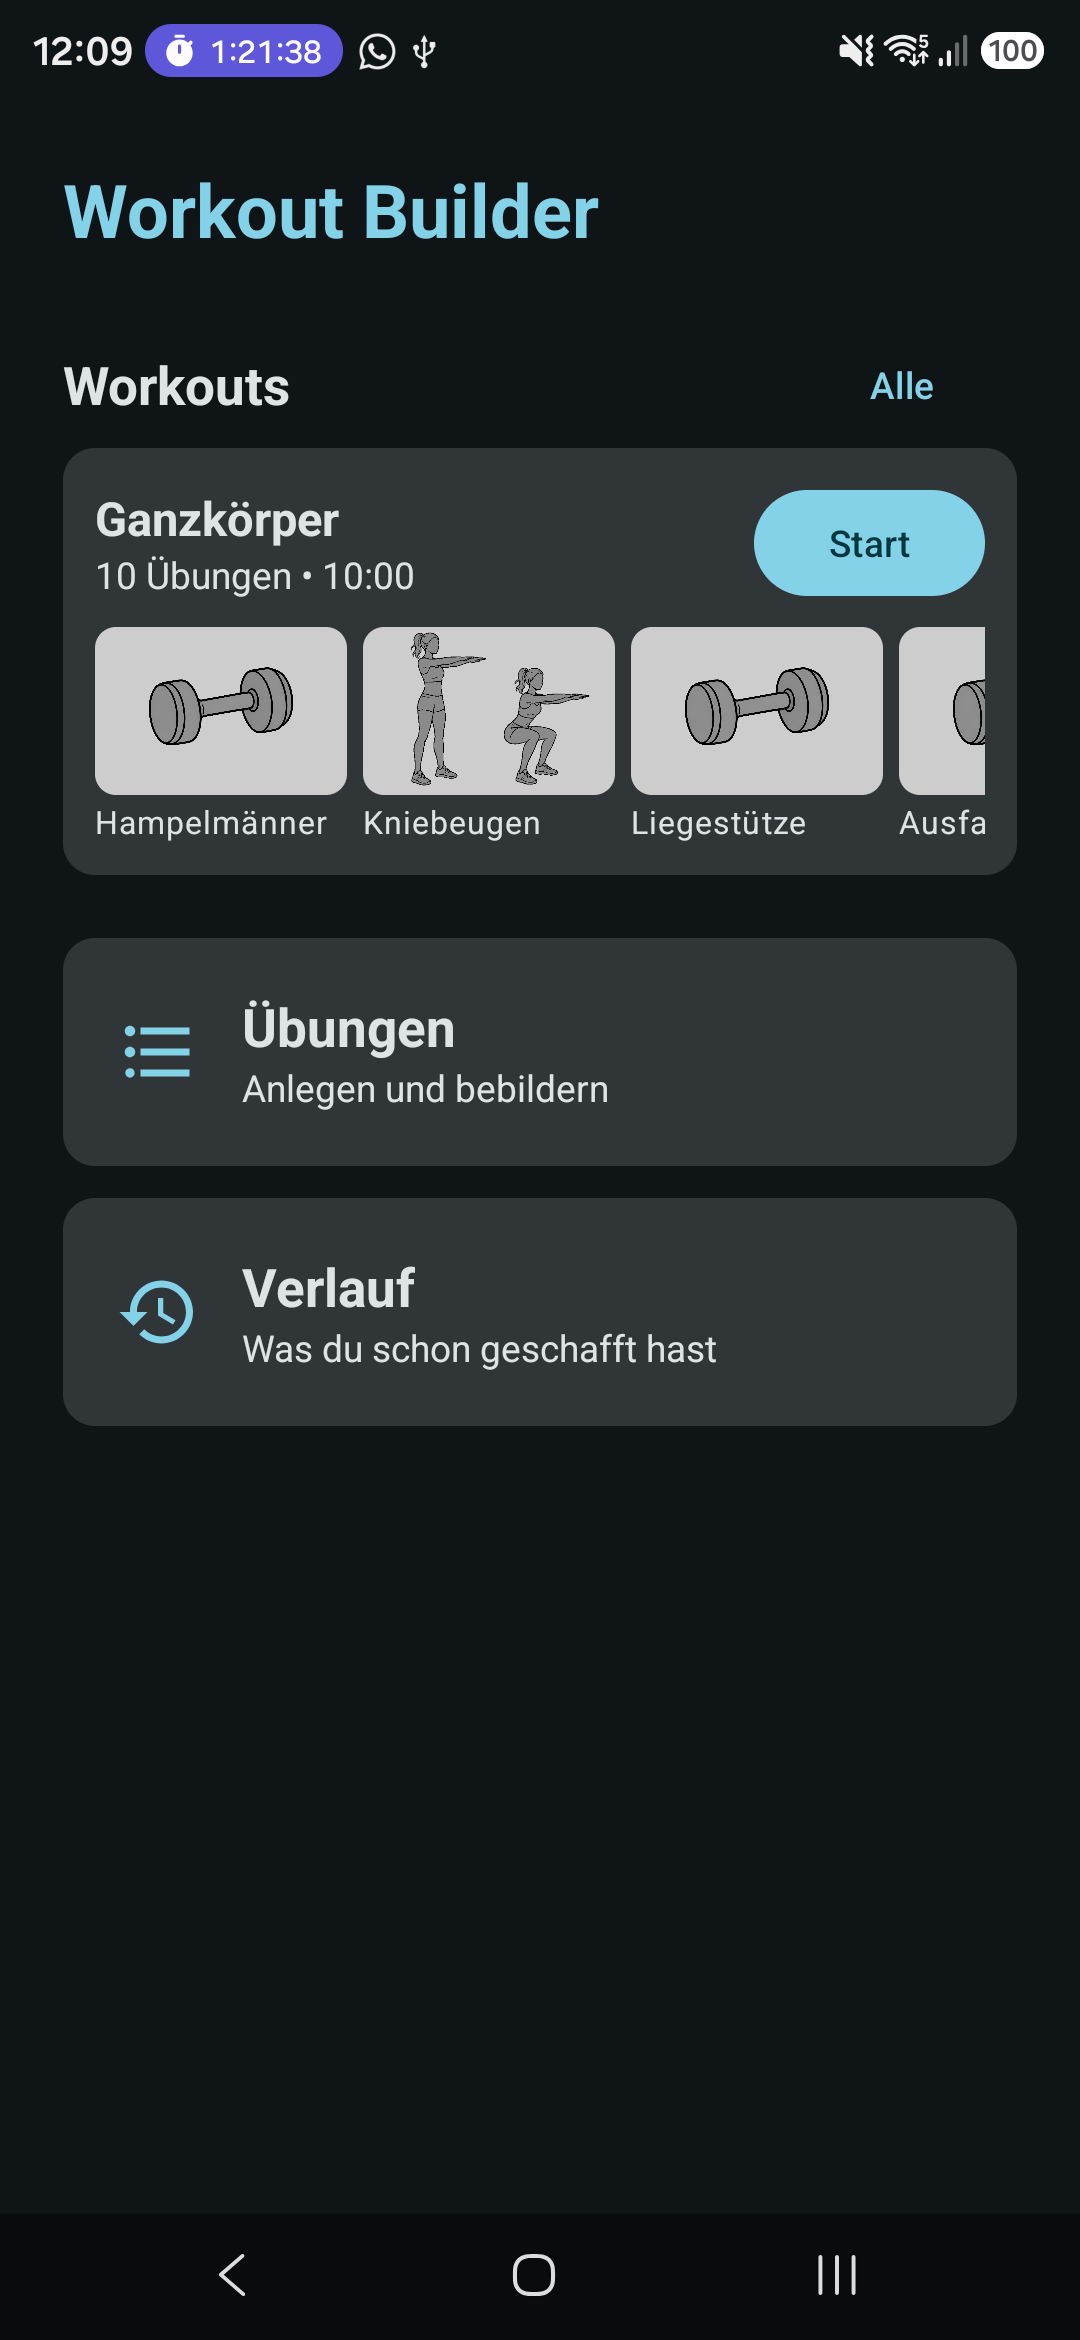
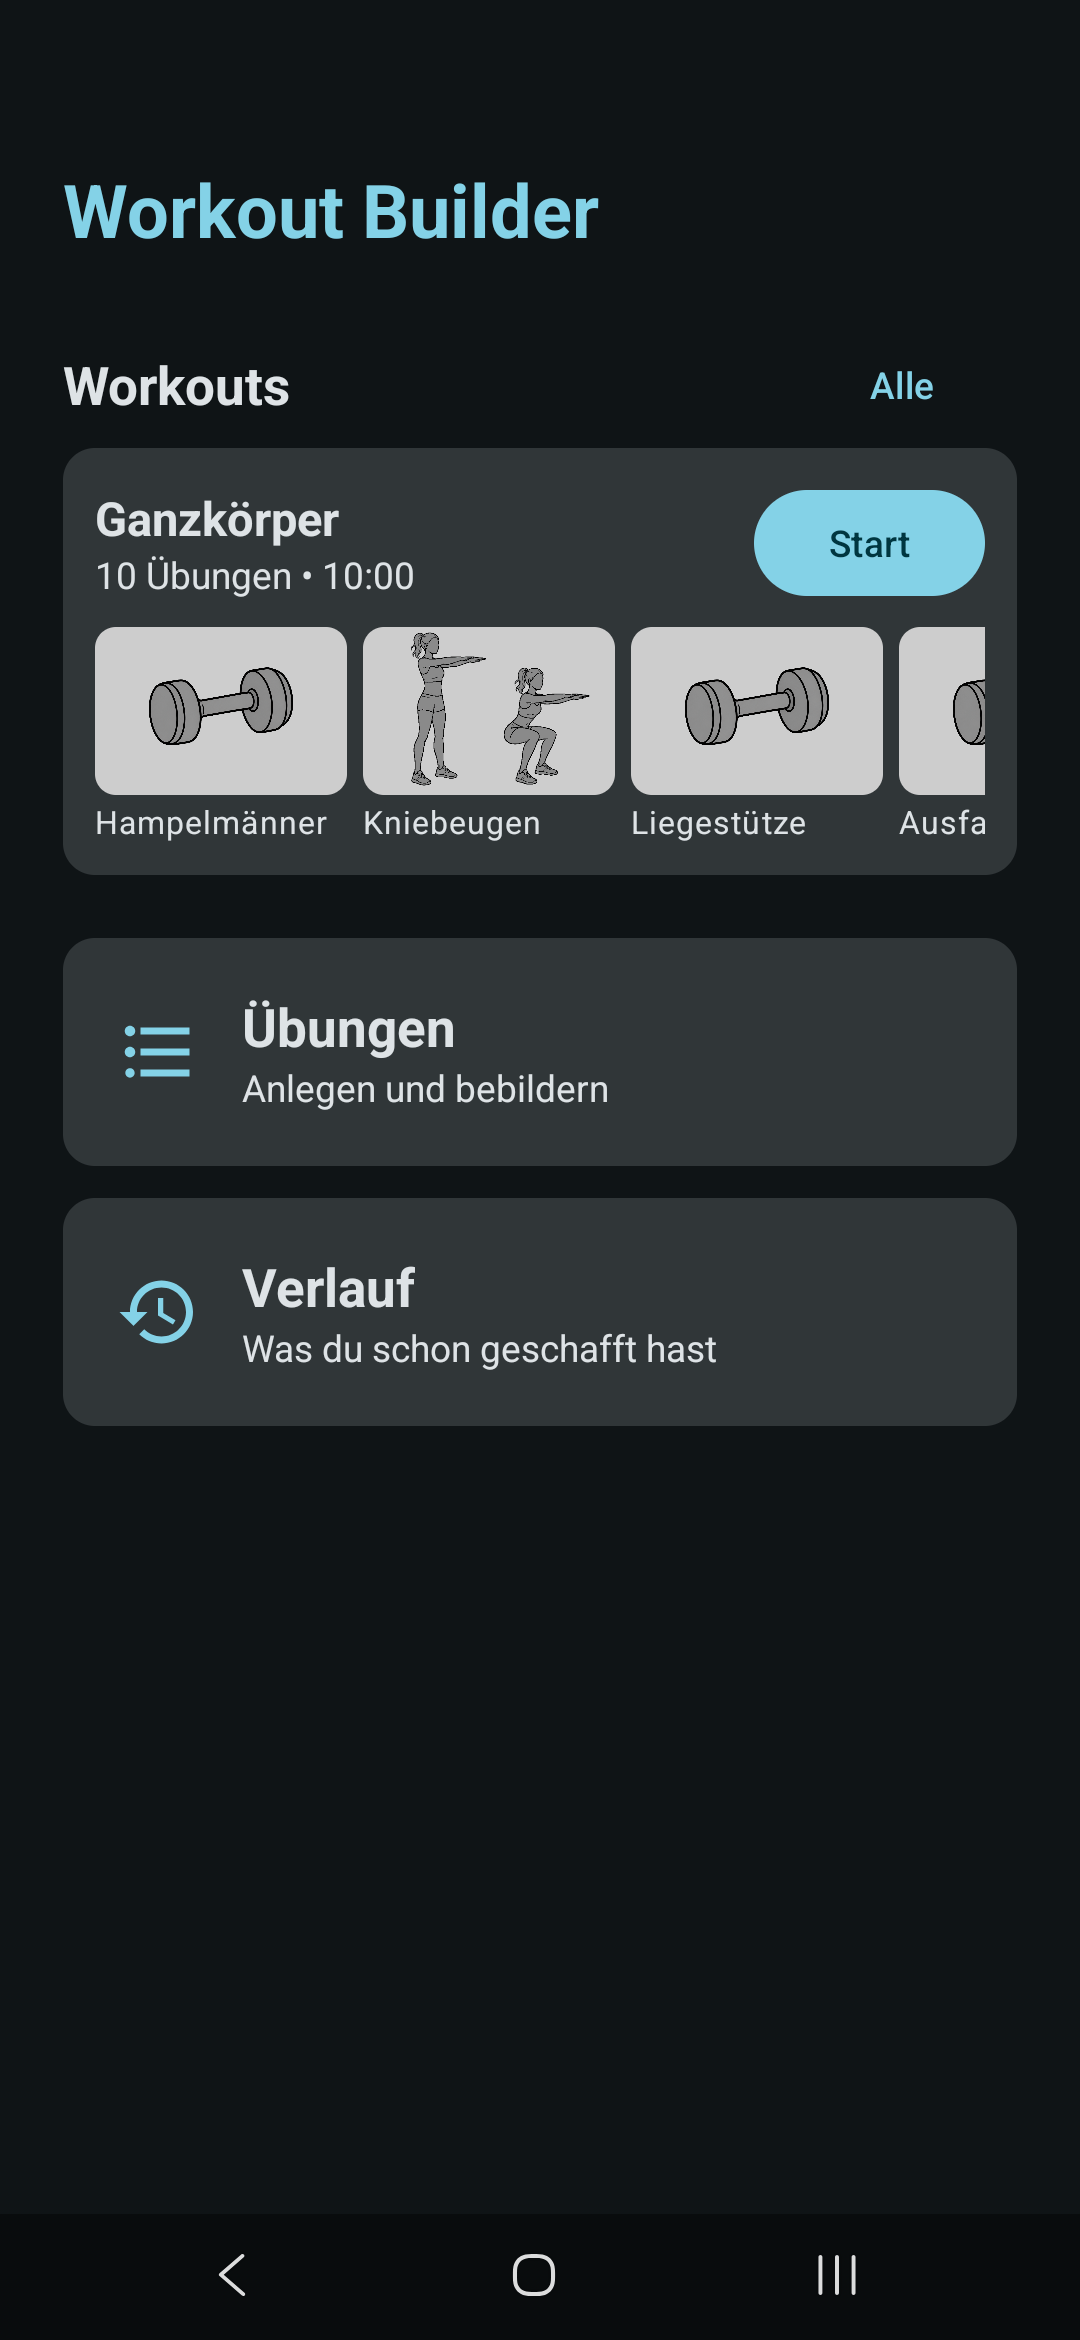
Close the notification shade before screenshots; renew them
An open shade would have been captured as the home screen, notifications and all.
The renewed screenshots have the status bar painted over.

Changed region(s): [[0.0306, 0.0, 0.3667, 0.0312], [0.7639, 0.0, 0.9778, 0.0312]]

diff --git a/scripts/readme-screenshots.py b/scripts/readme-screenshots.py
@@ -101,6 +101,8 @@ def main():
     probe = REPO / "app" / "build" / "screenshot-probe.png"
 
     try:
+        # An open notification shade would end up in the screenshots, notifications and all.
+        adb("shell", "cmd", "statusbar", "collapse")
         adb("shell", "am", "start", "-W", "-n", PKG + "/com.wob.workout.MainActivity")
         time.sleep(2.5)
         save_shot(SHOTS / "home.png")
